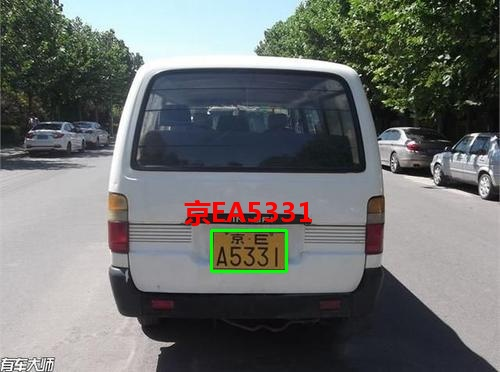
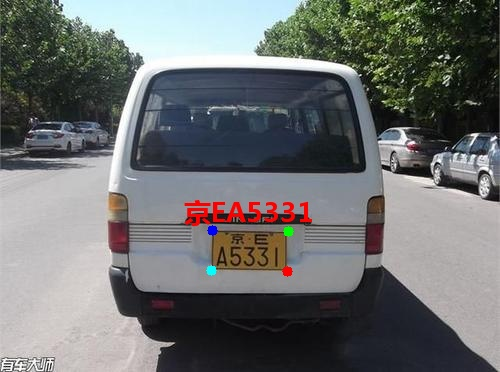
modify

Changed region(s): [[0.39, 0.5914, 0.6, 0.7688]]

diff --git a/detect_plate.py b/detect_plate.py
@@ -178,9 +178,9 @@ def get_plate_rec_landmark(img, xyxy, conf, landmarks, class_num,device,plate_re
 
 
 
-def detect_Recognition_plate(model, orgimg, device,plate_rec_model):
+def detect_Recognition_plate(model, orgimg, device,plate_rec_model,img_size):
     # Load model
-    img_size = 640
+    # img_size = opt_img_size
     conf_thres = 0.3
     iou_thres = 0.5
     dict_list=[]
@@ -308,9 +308,9 @@ def draw_result(orgimg,dict_list):
         landmarks=result['landmarks']
         result = result['plate_no']
         # print(result)
-        # for i in range(4):  #关键点
-            # cv2.circle(orgimg, (int(landmarks[i][0]), int(landmarks[i][1])), 5, clors[i], -1)
-        cv2.rectangle(orgimg,(rect_area[0],rect_area[1]),(rect_area[2],rect_area[3]),(0,255,0),2) #画框
+        for i in range(4):  #关键点
+            cv2.circle(orgimg, (int(landmarks[i][0]), int(landmarks[i][1])), 5, clors[i], -1)
+        # cv2.rectangle(orgimg,(rect_area[0],rect_area[1]),(rect_area[2],rect_area[3]),(0,255,0),2) #画框
         if len(result)>=1:
             orgimg=cv2ImgAddText(orgimg,result,rect_area[0]-height_area,rect_area[1]-height_area-10,(255,0,0),height_area)
     return orgimg
@@ -321,9 +321,9 @@ def draw_result(orgimg,dict_list):
 if __name__ == '__main__':
     parser = argparse.ArgumentParser()
     parser.add_argument('--detect_model', nargs='+', type=str, default='weights/best.pt', help='model.pt path(s)')  #检测模型
-    parser.add_argument('--rec_model', nargs='+', type=str, default='plate_recognition/model/checkpoint_98_acc_0.9684.pth', help='model.pt path(s)')#识别模型
+    parser.add_argument('--rec_model', nargs='+', type=str, default='plate_recognition/model/checkpoint_61_acc_0.9715.pth', help='model.pt path(s)')#识别模型
     parser.add_argument('--image_path', type=str, default='imgs', help='source')  # file/folder, 0 for webcam
-    parser.add_argument('--img-size', type=int, default=640, help='inference size (pixels)')
+    parser.add_argument('--img_size', type=int, default=640, help='inference size (pixels)')
     device = torch.device("cuda" if torch.cuda.is_available() else "cpu")
     # device =torch.device("cpu")
     opt = parser.parse_args()
@@ -331,7 +331,7 @@ if __name__ == '__main__':
 
     file_list=[]
     allFilePath(opt.image_path,file_list)
-    save_path = "result"
+    save_path = "result1"
     count=0
     if not os.path.exists(save_path):
         os.mkdir(save_path)
@@ -348,7 +348,7 @@ if __name__ == '__main__':
         if img.shape[-1]==4:
             img=cv2.cvtColor(img,cv2.COLOR_BGRA2BGR)
         # detect_one(model,img_path,device)
-        dict_list=detect_Recognition_plate(detect_model, img, device,plate_rec_model)
+        dict_list=detect_Recognition_plate(detect_model, img, device,plate_rec_model,opt.img_size)
         ori_img=draw_result(img,dict_list)
         img_name = os.path.basename(img_path)
         save_img_path = os.path.join(save_path,img_name)

diff --git a/plate_recognition/plate_rec.py b/plate_recognition/plate_rec.py
@@ -20,7 +20,7 @@ def allFilePath(rootPath,allFIleList):
         else:
             allFilePath(os.path.join(rootPath,temp),allFIleList)
 device = torch.device('cuda') if torch.cuda.is_available() else torch.device("cpu")
-plateName="#京沪津渝冀晋蒙辽吉黑苏浙皖闽赣鲁豫鄂湘粤桂琼川贵云藏陕甘青宁新学警港澳挂使领民深危险品0123456789ABCDEFGHJKLMNPQRSTUVWXYZ"
+plateName=r"#京沪津渝冀晋蒙辽吉黑苏浙皖闽赣鲁豫鄂湘粤桂琼川贵云藏陕甘青宁新学警港澳挂使领民航深0123456789ABCDEFGHJKLMNPQRSTUVWXYZ"
 mean_value,std_value=(0.588,0.193)
 def decodePlate(preds):
     pre=0
@@ -58,12 +58,15 @@ def get_plate_result(img,device,model):
     #     return ""
     return plate
 
-def init_model(device,rec_model_path):
+def init_model(device,model_path):
     # print( print(sys.path))
-    model_path =rec_model_path
+    # model_path ="plate_recognition/model/checkpoint_61_acc_0.9715.pth"
+    check_point = torch.load(model_path,map_location=device)
+    model_state=check_point['state_dict']
+    cfg=check_point['cfg']
     model_path = os.sep.join([sys.path[0],model_path])
-    model = myNet_ocr(num_classes=78,export=True)
-    model_state = torch.load(model_path,map_location=device)['state_dict']
+    model = myNet_ocr(num_classes=78,export=True,cfg=cfg)
+   
     model.load_state_dict(model_state)
     model.to(device)
     model.eval()

diff --git a/README.md b/README.md
@@ -14,6 +14,8 @@
 **10 港澳牌车**
 **11 双层农用车牌**
 
+**12 民航车牌**
+
  环境配置:
 
 1.python >=3.6  pytorch >=1.7
@@ -42,6 +44,7 @@ parser.add_argument('--image_path', type=str, default='imgs', help='source')  # 
    ```
    label x y w h  pt1x pt1y pt2x pt2y pt3x pt3y pt4x pt4y
    ```
+
    关键点依次是（左上，右上，右下，左下）
    坐标都是经过归一化，x,y是中心点除以图片宽高，w,h是框的宽高除以图片宽高，ptx，pty是关键点坐标除以宽高
 2. 修改 data/widerface.yaml    train和val路径
@@ -93,3 +96,7 @@ crnn:
 
 **11. 双层农用车牌**
 ![Image 双层农用车牌](result/nongyong_double.jpg)
+
+**12.民航车牌**
+
+![Image text](result/minghang.jpg "民航车牌")
